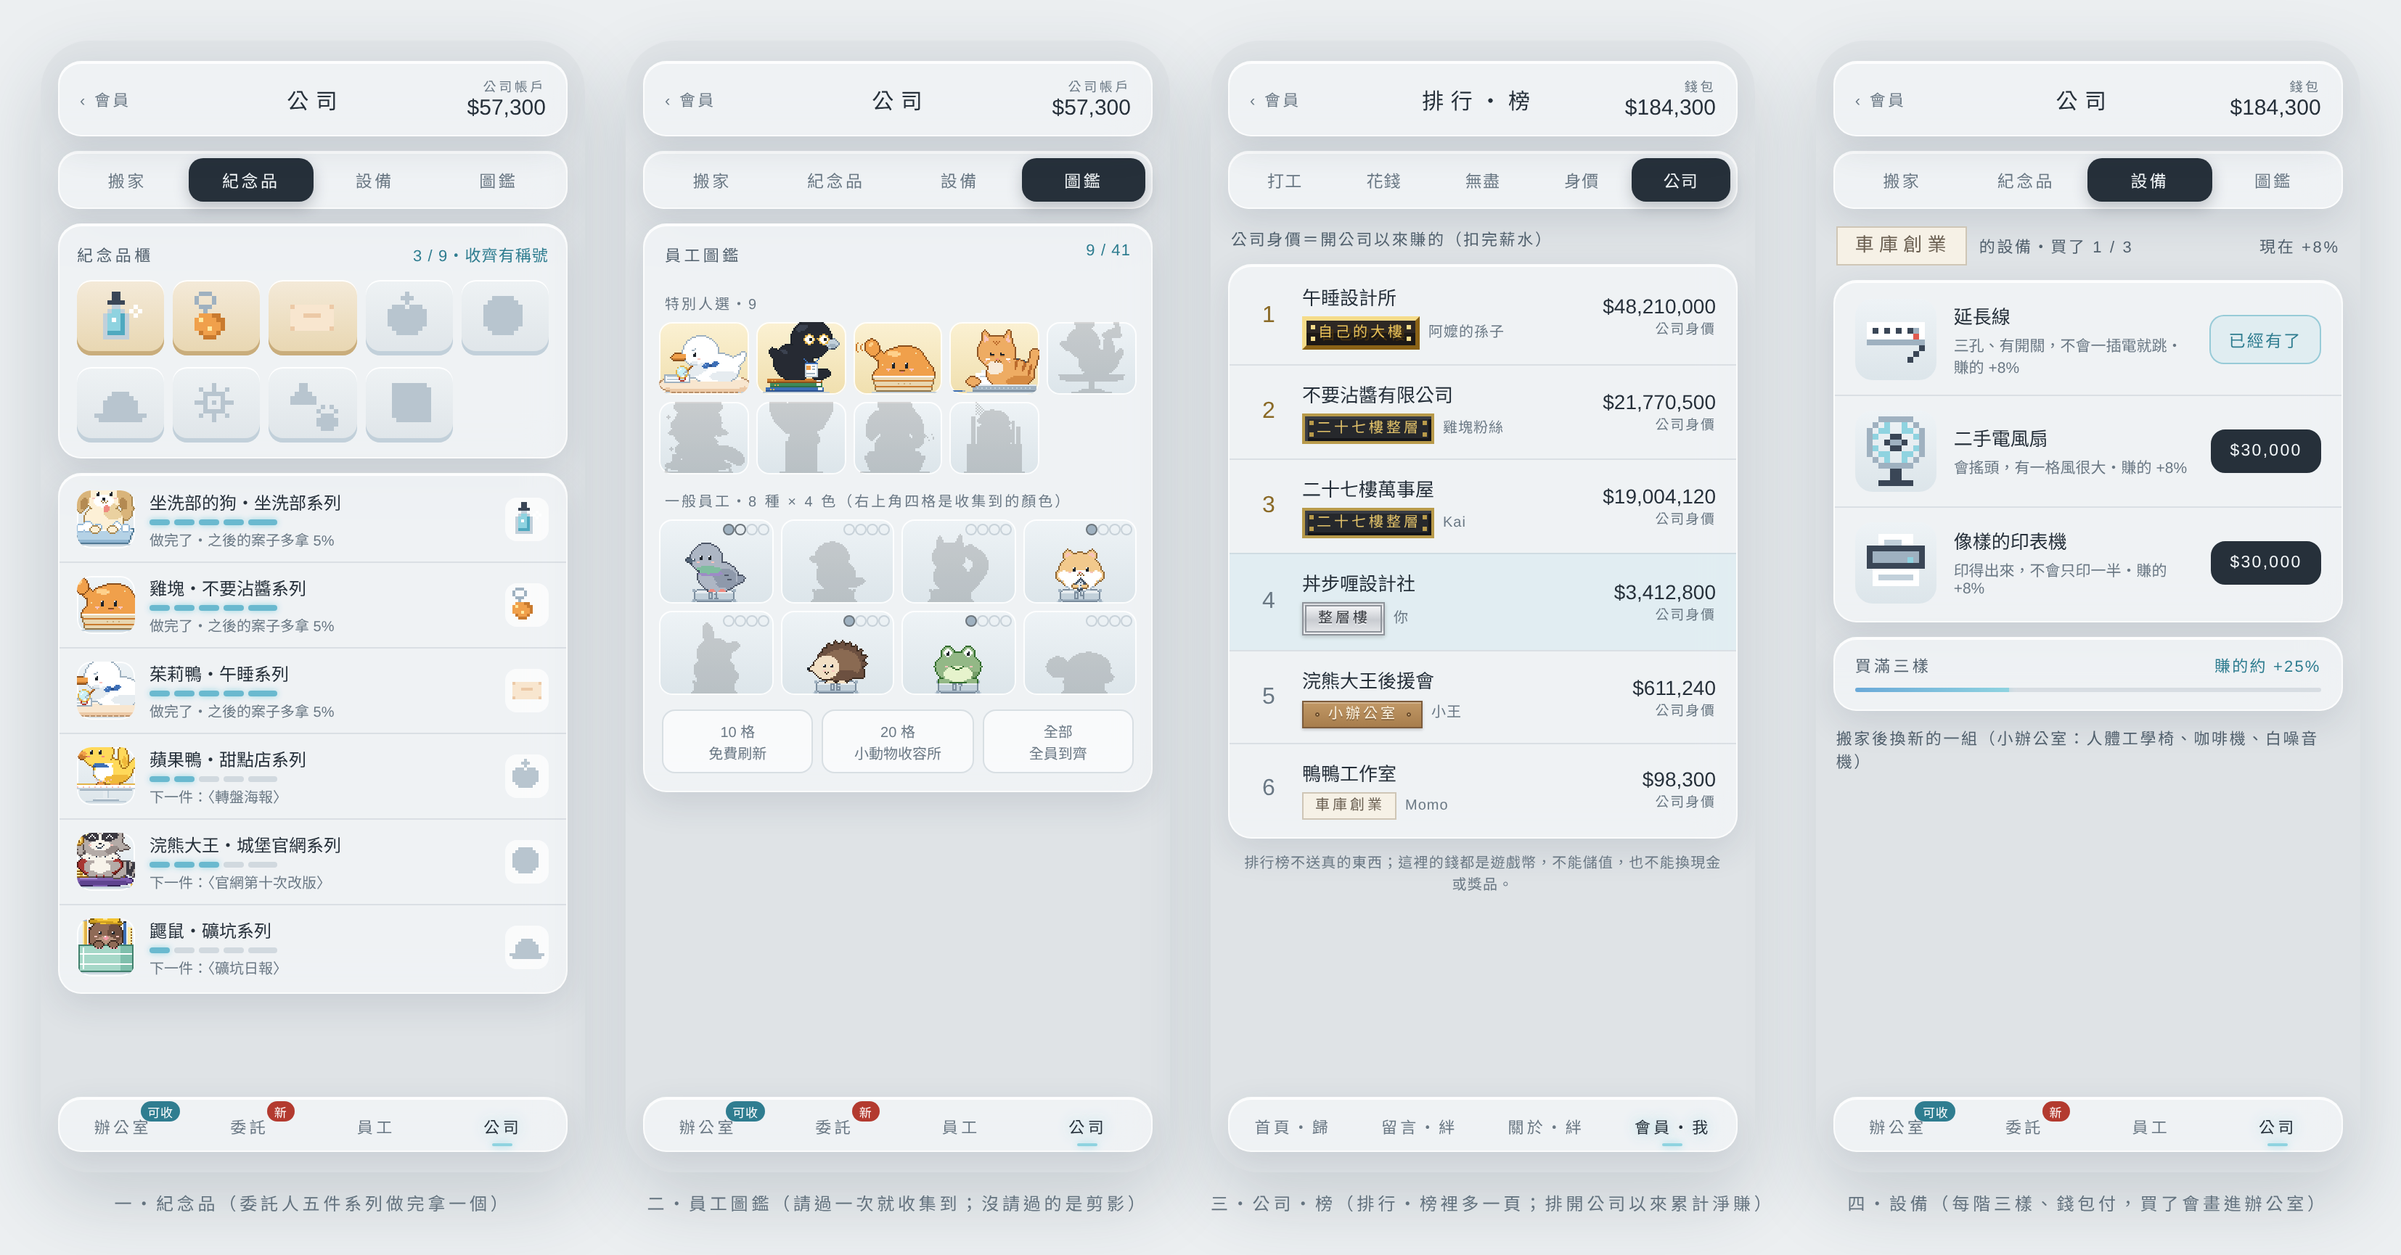
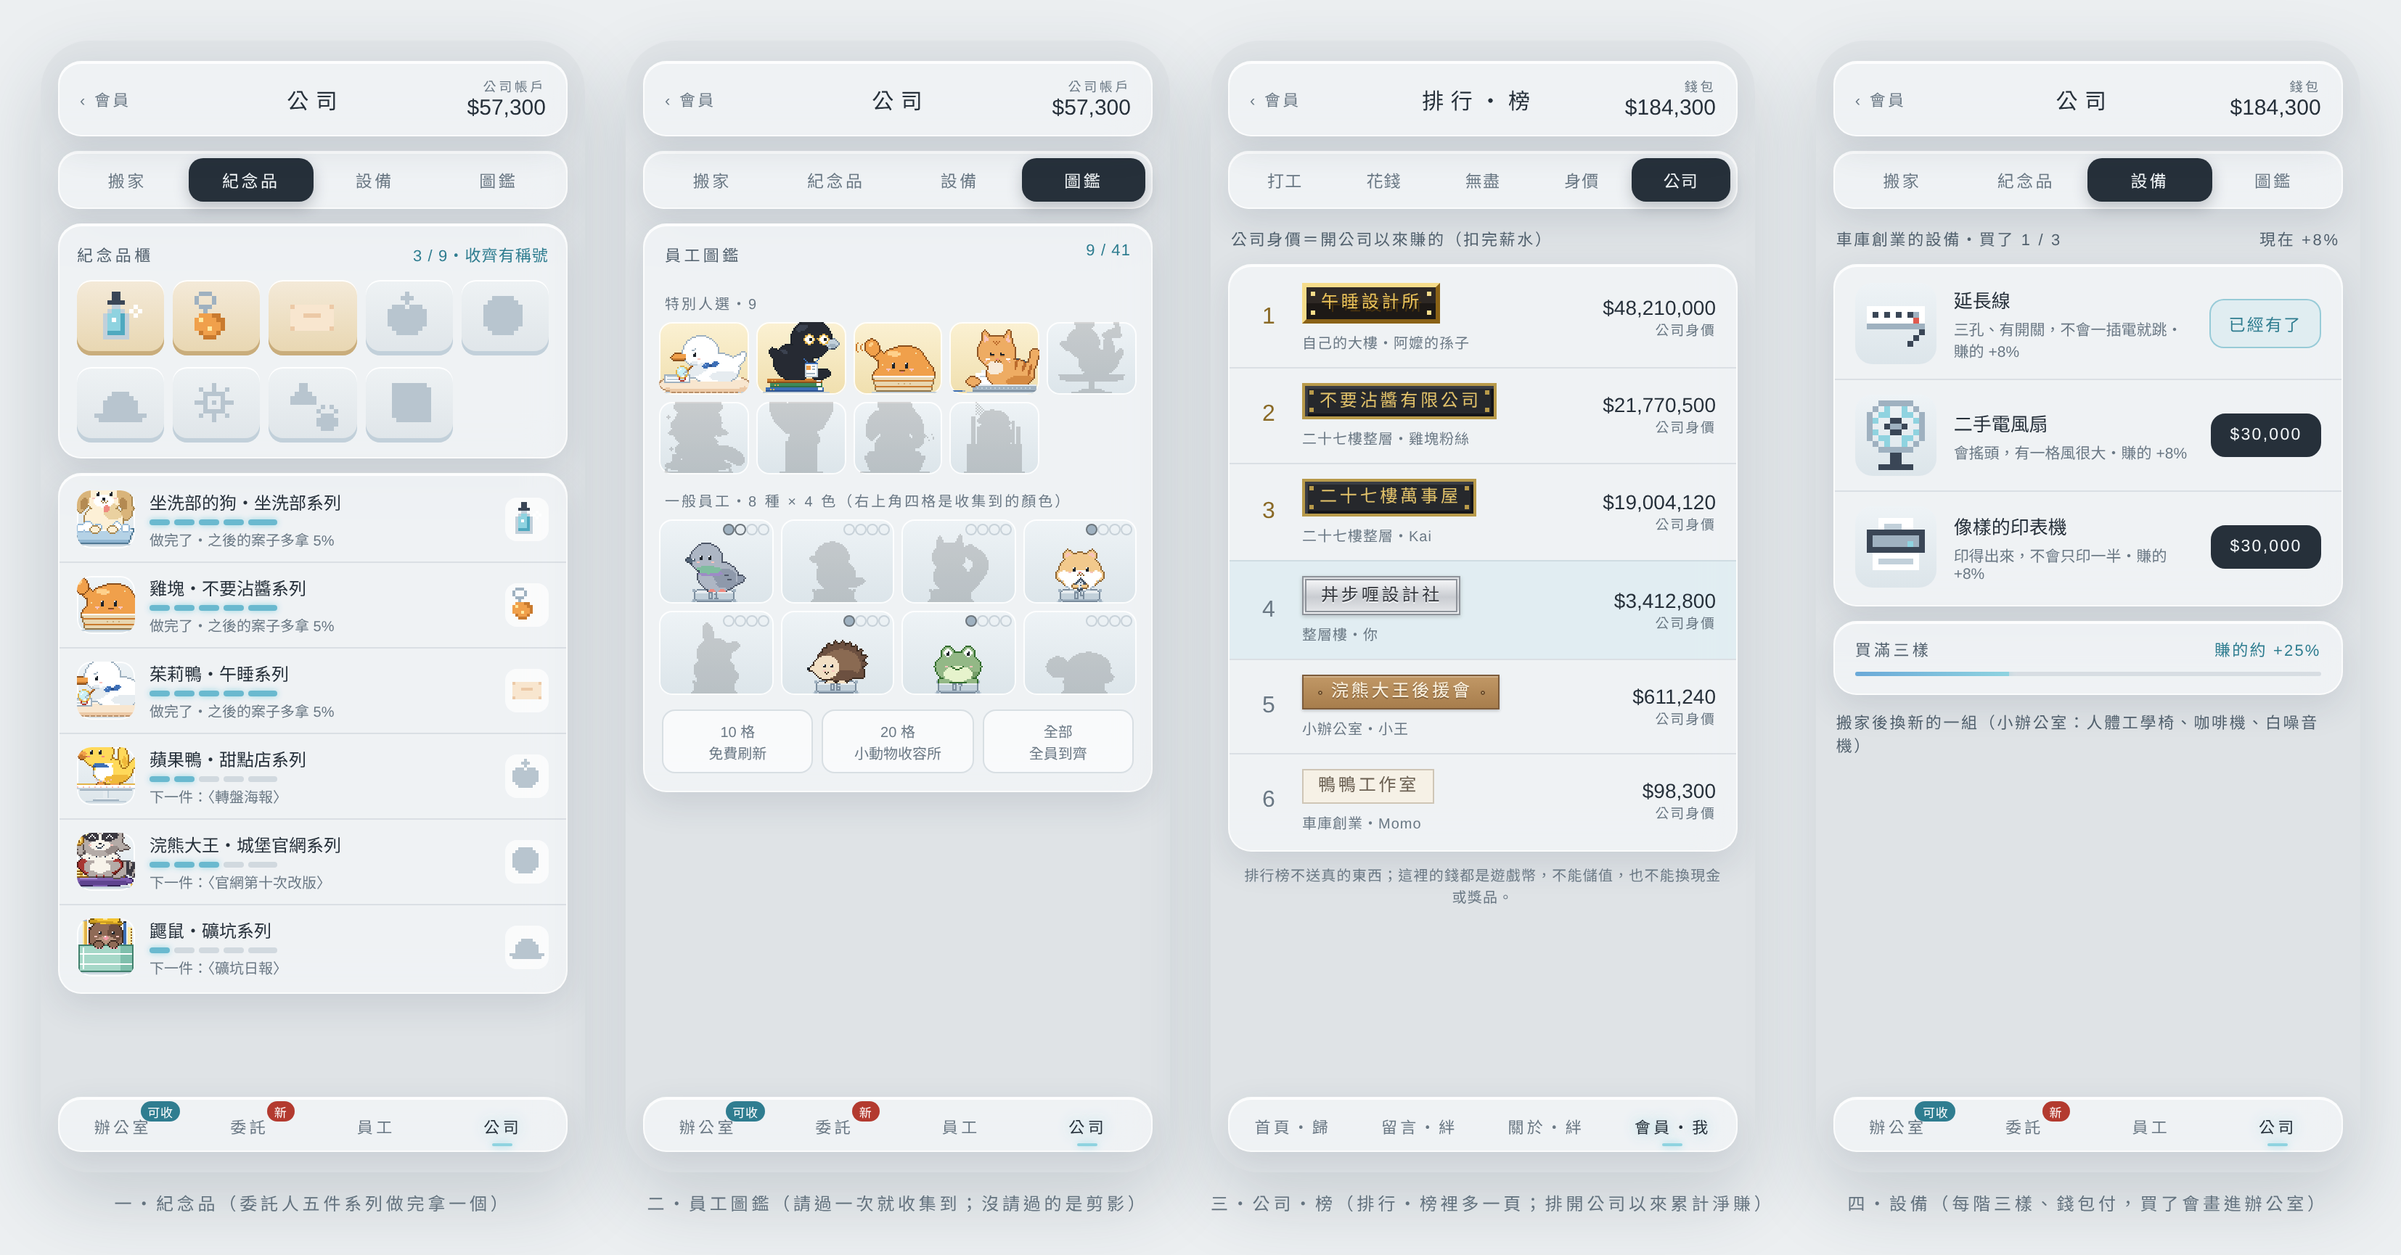
docs: nameplates show the player's company name
Claude-Session: https://claude.ai/code/session_01DfELKGAuUeHGLNNJha5AAX

diff --git a/docs/plans/company/ui.html b/docs/plans/company/ui.html
@@ -16,7 +16,7 @@
   <div><div class="phone">
     <div class="hero"><img class="px" src="ui/hero-garage.png" width="375" height="190" alt=""></div>
     <div class="hd glass"><span class="bk">‹ 會員</span><h1>公司・開</h1><div class="m num"><small>公司帳戶</small>$57,300</div></div>
-    <div class="sub"><span class="np np1">車庫創業</span><span>丼步喱設計社・員工 3 人</span></div>
+    <div class="sub"><span class="np np1">丼步喱設計社</span><span>車庫創業・員工 3 人</span></div>
     <div class="space"></div>
     <div class="kp"><div class="glass"><small>每小時</small><b class="num">$2,996</b></div><div class="glass"><small>進行中</small><b class="num">3 / 3</b></div><div class="glass"><small>閒著</small><b class="num">0 人</b></div></div>
     <div class="panel glass">
@@ -80,7 +80,7 @@
   <div><div class="phone">
     <div class="hero"><img class="px" src="ui/hero-garage.png" width="375" height="190" alt=""></div>
     <div class="hd glass"><span class="bk">‹ 會員</span><h1>公司・開</h1><div class="m num"><small>公司帳戶</small>$57,300</div></div>
-    <div class="sub"><span class="np np1">車庫創業</span><span>丼步喱設計社・員工 3 人</span></div>
+    <div class="sub"><span class="np np1">丼步喱設計社</span><span>車庫創業・員工 3 人</span></div>
     <div class="space"></div>
     <div class="kp"><div class="glass"><small>每小時</small><b class="num">$2,996</b></div><div class="glass"><small>進行中</small><b class="num">3 / 3</b></div><div class="glass"><small>閒著</small><b class="num">0 人</b></div></div>
     <div class="tabs glass"><span class="on">辦公室</span><span>委託</span><span>員工</span><span>公司</span></div>
@@ -101,17 +101,17 @@
     <div class="hd glass"><span class="bk">‹ 會員</span><h1>公司</h1><div class="m num"><small>公司帳戶</small>$57,300</div></div>
     <div class="co glass"><div><b>丼步喱設計社</b><small>創始執行長・成立第 1 天</small></div><div style="text-align:right"><b class="num" style="font-weight:300">8 件</b><small>做完的案子</small></div></div>
     <div class="lvls glass">
-      <div class="lvl now"><div class="th"><img src="ui/thumb1.png" alt=""></div><div class="info"><div class="top"><span class="np np1">車庫創業</span><span class="chip" style="margin-left:auto">現在</span></div><div class="d">3 人・同時 3 件・案子最長 4 小時</div></div></div>
-      <div class="lvl"><div class="th"><img src="ui/thumb2.png" alt=""></div><div class="info"><div class="top"><span class="np np2">小辦公室</span></div><div class="d">5 人・同時 4 件・可以接跨夜 8 小時的案子</div><div class="d pr2 num">$45,000・做完 10 件</div></div></div>
-      <div class="lvl lock"><div class="th"><img src="ui/thumb3.png" alt=""></div><div class="info"><div class="top"><span class="np np3">整層樓</span></div><div class="d">8 人・同時 6 件・有茶水間</div><div class="d pr2 num">$350,000・40 件</div></div></div>
-      <div class="lvl lock"><div class="th"><img src="ui/thumb4.png" alt=""></div><div class="info"><div class="top"><span class="np np4">二十七樓整層</span></div><div class="d">12 人・同時 8 件・跨夜 12 小時的大案</div><div class="d pr2 num">$1,300,000・125 件</div></div></div>
-      <div class="lvl lock"><div class="th"><img src="ui/thumb5.png" alt=""></div><div class="info"><div class="top"><span class="np np5">自己的大樓</span></div><div class="d">20 人・同時 12 件・樓頂掛公司招牌</div><div class="d pr2 num">$3,300,000・300 件</div></div></div>
-      <div class="lvl lock ipo"><div class="th">上市</div><div class="info"><div class="top"><span class="np np6">掛牌上市</span><span class="chip mute" style="margin-left:auto">之後才有</span></div><div class="d">變成股市的一檔股票，你是執行長、可以發公告</div></div></div>
+      <div class="lvl now"><div class="th"><img src="ui/thumb1.png" alt=""></div><div class="info"><div class="top"><span class="np np1">丼步喱設計社</span><span class="stg">車庫創業</span><span class="chip" style="margin-left:auto">現在</span></div><div class="d">3 人・同時 3 件・案子最長 4 小時</div></div></div>
+      <div class="lvl"><div class="th"><img src="ui/thumb2.png" alt=""></div><div class="info"><div class="top"><span class="np np2">丼步喱設計社</span><span class="stg">小辦公室</span></div><div class="d">5 人・同時 4 件・可以接跨夜 8 小時的案子</div><div class="d pr2 num">$45,000・做完 10 件</div></div></div>
+      <div class="lvl lock"><div class="th"><img src="ui/thumb3.png" alt=""></div><div class="info"><div class="top"><span class="np np3">丼步喱設計社</span><span class="stg">整層樓</span></div><div class="d">8 人・同時 6 件・有茶水間</div><div class="d pr2 num">$350,000・40 件</div></div></div>
+      <div class="lvl lock"><div class="th"><img src="ui/thumb4.png" alt=""></div><div class="info"><div class="top"><span class="np np4">丼步喱設計社</span><span class="stg">二十七樓整層</span></div><div class="d">12 人・同時 8 件・跨夜 12 小時的大案</div><div class="d pr2 num">$1,300,000・125 件</div></div></div>
+      <div class="lvl lock"><div class="th"><img src="ui/thumb5.png" alt=""></div><div class="info"><div class="top"><span class="np np5">丼步喱設計社</span><span class="stg">自己的大樓</span></div><div class="d">20 人・同時 12 件・樓頂掛公司招牌</div><div class="d pr2 num">$3,300,000・300 件</div></div></div>
+      <div class="lvl lock ipo"><div class="th">上市</div><div class="info"><div class="top"><span class="np np6">丼步喱設計社</span><span class="stg">掛牌上市</span></div><div class="d">之後才有・變成股市的一檔股票，你是執行長、可以發公告</div></div></div>
     </div>
     <div class="cta"><button class="main num" style="flex:1">搬到小辦公室・$45,000（還差 2 件）</button></div>
     <p class="foot">這裡的錢都是遊戲幣，不能儲值，也不能換現金或獎品。</p>
     <div class="tabs glass"><span>辦公室<em class="c">可收</em></span><span>委託<em>新</em></span><span>員工</span><span class="on">公司</span></div>
-  </div><div class="cap">五・公司（每一階的辦公室和銘牌）</div></div>
+  </div><div class="cap">五・公司（每一階的辦公室；銘牌上是自己的公司名字）</div></div>
 
 </div>
 </body>

diff --git a/docs/plans/company/ui3.html b/docs/plans/company/ui3.html
@@ -32,7 +32,7 @@
     <div class="hd glass"><span class="bk">‹ 會員</span><h1>排行・榜</h1><div class="m num"><small>錢包</small>$184,300</div></div>
     <div class="seg3 glass" style="grid-template-columns:repeat(5,1fr);letter-spacing:.05em"><span>打工</span><span>花錢</span><span>無盡</span><span>身價</span><span class="on">公司</span></div>
     <div class="sub" style="margin-top:12px"><span>公司身價＝開公司以來賺的（扣完薪水）</span></div>
-    <div class="panel glass" style="padding:2px 0"><div class="rk"><span class="no num top">1</span><div class="co2">午睡設計所<small><span class="np np5">自己的大樓</span>阿嬤的孫子</small></div><div class="v num">$48,210,000<small>公司身價</small></div></div><div class="rk"><span class="no num top">2</span><div class="co2">不要沾醬有限公司<small><span class="np np4">二十七樓整層</span>雞塊粉絲</small></div><div class="v num">$21,770,500<small>公司身價</small></div></div><div class="rk"><span class="no num top">3</span><div class="co2">二十七樓萬事屋<small><span class="np np4">二十七樓整層</span>Kai</small></div><div class="v num">$19,004,120<small>公司身價</small></div></div><div class="rk me"><span class="no num">4</span><div class="co2">丼步喱設計社<small><span class="np np3">整層樓</span>你</small></div><div class="v num">$3,412,800<small>公司身價</small></div></div><div class="rk"><span class="no num">5</span><div class="co2">浣熊大王後援會<small><span class="np np2">小辦公室</span>小王</small></div><div class="v num">$611,240<small>公司身價</small></div></div><div class="rk"><span class="no num">6</span><div class="co2">鴨鴨工作室<small><span class="np np1">車庫創業</span>Momo</small></div><div class="v num">$98,300<small>公司身價</small></div></div></div>
+    <div class="panel glass" style="padding:2px 0"><div class="rk"><span class="no num top">1</span><div class="co2"><span class="np np5">午睡設計所</span><small>自己的大樓・阿嬤的孫子</small></div><div class="v num">$48,210,000<small>公司身價</small></div></div><div class="rk"><span class="no num top">2</span><div class="co2"><span class="np np4">不要沾醬有限公司</span><small>二十七樓整層・雞塊粉絲</small></div><div class="v num">$21,770,500<small>公司身價</small></div></div><div class="rk"><span class="no num top">3</span><div class="co2"><span class="np np4">二十七樓萬事屋</span><small>二十七樓整層・Kai</small></div><div class="v num">$19,004,120<small>公司身價</small></div></div><div class="rk me"><span class="no num">4</span><div class="co2"><span class="np np3">丼步喱設計社</span><small>整層樓・你</small></div><div class="v num">$3,412,800<small>公司身價</small></div></div><div class="rk"><span class="no num">5</span><div class="co2"><span class="np np2">浣熊大王後援會</span><small>小辦公室・小王</small></div><div class="v num">$611,240<small>公司身價</small></div></div><div class="rk"><span class="no num">6</span><div class="co2"><span class="np np1">鴨鴨工作室</span><small>車庫創業・Momo</small></div><div class="v num">$98,300<small>公司身價</small></div></div></div>
     <p class="foot">排行榜不送真的東西；這裡的錢都是遊戲幣，不能儲值，也不能換現金或獎品。</p>
     <div class="tabs glass"><span>首頁・歸</span><span>留言・絆</span><span>關於・絆</span><span class="on">會員・我</span></div>
   </div><div class="cap">三・公司・榜（排行・榜裡多一頁；排開公司以來累計淨賺）</div></div>
@@ -40,7 +40,7 @@
   <div><div class="phone">
     <div class="hd glass"><span class="bk">‹ 會員</span><h1>公司</h1><div class="m num"><small>錢包</small>$184,300</div></div>
     <div class="seg3 glass"><span>搬家</span><span>紀念品</span><span class="on">設備</span><span>圖鑑</span></div>
-    <div class="sub" style="margin-top:12px"><span class="np np1">車庫創業</span><span>的設備・買了 1 / 3</span><span class="r num">現在 +8%</span></div>
+    <div class="sub" style="margin-top:12px"><span>車庫創業的設備・買了 1 / 3</span><span class="r num">現在 +8%</span></div>
     <div class="panel glass" style="padding:2px 0"><div class="eq"><div class="ic"><canvas width="12" height="12" data-ic="strip"></canvas></div><div><div class="nm">延長線</div><div class="d">三孔、有開關，不會一插電就跳・賺的 +8%</div></div><button class="got">已經有了</button></div><div class="eq"><div class="ic"><canvas width="12" height="12" data-ic="fan"></canvas></div><div><div class="nm">二手電風扇</div><div class="d">會搖頭，有一格風很大・賺的 +8%</div></div><button class="num">$30,000</button></div><div class="eq"><div class="ic"><canvas width="12" height="12" data-ic="printer"></canvas></div><div><div class="nm">像樣的印表機</div><div class="d">印得出來，不會只印一半・賺的 +8%</div></div><button class="num">$30,000</button></div></div>
     <div class="goal glass"><div class="gt"><span>買滿三樣</span><span class="r num">賺的約 +25%</span></div><div class="bar" style="margin-top:8px"><i style="width:33%"></i></div></div>
     <div class="sub" style="margin-top:10px"><span>搬家後換新的一組（小辦公室：人體工學椅、咖啡機、白噪音機）</span></div>

diff --git a/docs/plans/company/ui.css b/docs/plans/company/ui.css
@@ -190,10 +190,12 @@
 .rk .co2 { font-size: 13px; } .rk .co2 small { display: block; font-size: 10px; color: #6a7884; margin-top: 4px; letter-spacing: .05em; }
 .rk .v { text-align: right; font-size: 14px; font-weight: 300; } .rk .v small { display: block; font-size: 9.5px; color: #6a7884; letter-spacing: .1em; }
 .rk.me { background: rgba(143,211,224,.14); }
-.rk .np { font-size: 10px; padding: 2px 7px 2px 8px; letter-spacing: .2em; margin-right: 6px; }
+.rk .np { font-size: 12px; padding: 3px 9px 3px 10px; letter-spacing: .16em; } .rk .co2 small { margin-top: 5px; }
 .eq { display: grid; grid-template-columns: 56px 1fr auto; gap: 12px; align-items: center; padding: 10px 14px; } .eq + .eq { border-top: 1px solid rgba(120,140,155,.18); }
 .eq .ic { width: 56px; height: 56px; border-radius: 12px; background: linear-gradient(#eef3f6, #dce5ea); display: flex; align-items: center; justify-content: center; } .eq .ic canvas { width: 48px; height: 48px; image-rendering: pixelated; }
 .eq .nm { font-size: 13px; } .eq .d { font-size: 10.5px; color: #6a7884; margin-top: 3px; }
 .eq button { font: inherit; font-size: 11.5px; letter-spacing: .1em; padding: 8px 12px; border-radius: 10px; border: 1px solid #26303a; background: #26303a; color: #f2f6f8; white-space: nowrap; } .eq button.got { background: rgba(143,211,224,.15); color: #2f7d90; border-color: rgba(79,169,191,.5); }
 
 .dex .dots4 { position: absolute; right: 4px; top: 4px; display: flex; gap: 2px; } .dex .dots4 i { position: static; width: 6px; height: 6px; border-radius: 50%; box-shadow: 0 0 0 1px rgba(60,70,80,.35); }
+
+.lvl .stg { font-size: 10.5px; color: #51606d; letter-spacing: .15em; white-space: nowrap; } .lvl .np { font-size: 11.5px; letter-spacing: .2em; }

diff --git a/docs/plans/company/README.md b/docs/plans/company/README.md
@@ -105,3 +105,4 @@
   - **員工圖鑑**：九位特殊角色＋八種一般員工 × 四色＝41 格；沒請過的用角色圖本身壓成剪影；10／20／全部格有里程碑。
   - **公司・榜**：排行・榜多一頁，排開公司以來累計淨賺（不是帳戶餘額），列出公司名字、現在的銘牌、執行長。
   - **設備**：每階三樣（車庫：延長線、二手電風扇、像樣的印表機），每樣 +8%。
+- **銘牌上寫自己的公司名字**（2026-11-25，使用者：「牌子裡面要放自己公司名稱吧？」）：介面上的銘牌（辦公室上方、公司頁每一階、公司・榜）都改成寫玩家取的公司名字，階段名稱（車庫創業、小辦公室…）寫在旁邊；銘牌的材質（紙名片 → 木牌 → 拉絲銀牌 → 黑底金字 → 黑漆金框 → 金箔）表示到第幾階。辦公室畫面裡門邊那塊像素小牌只有 22～44 px 寬，放不下 12 個字，**用公司名字的第一個字當標誌**（丼步喱設計社 → 「丼」），旁邊兩條線代表字。

diff --git a/changelog/2026-11.md b/changelog/2026-11.md
@@ -1468,3 +1468,8 @@
 ## 2026-11-25 13:40（台灣）　公司・開：中期目標第一批
 - 擬好四樣中期目標，畫了樣張：委託人系列和紀念品（九位委託人、九個紀念品）、員工圖鑑（41 格，沒請過的是剪影）、排行榜多一頁「公司・榜」、每一階三樣設備。
 - 還在企劃階段，玩家看不到；不用重新部署。
+
+## 2026-11-25 14:00（台灣）　公司・開：銘牌寫自己的公司名字
+- 介面上的銘牌改成寫玩家自己取的公司名字，牌子的材質（紙名片、木牌、銀牌、黑底金字、黑漆金框、金箔）表示公司到第幾階；排行榜上每家公司也是用自己的銘牌。
+- 辦公室畫面裡門邊的小牌太小，放公司名字的第一個字當標誌。
+- 還在企劃階段，玩家看不到；不用重新部署。
